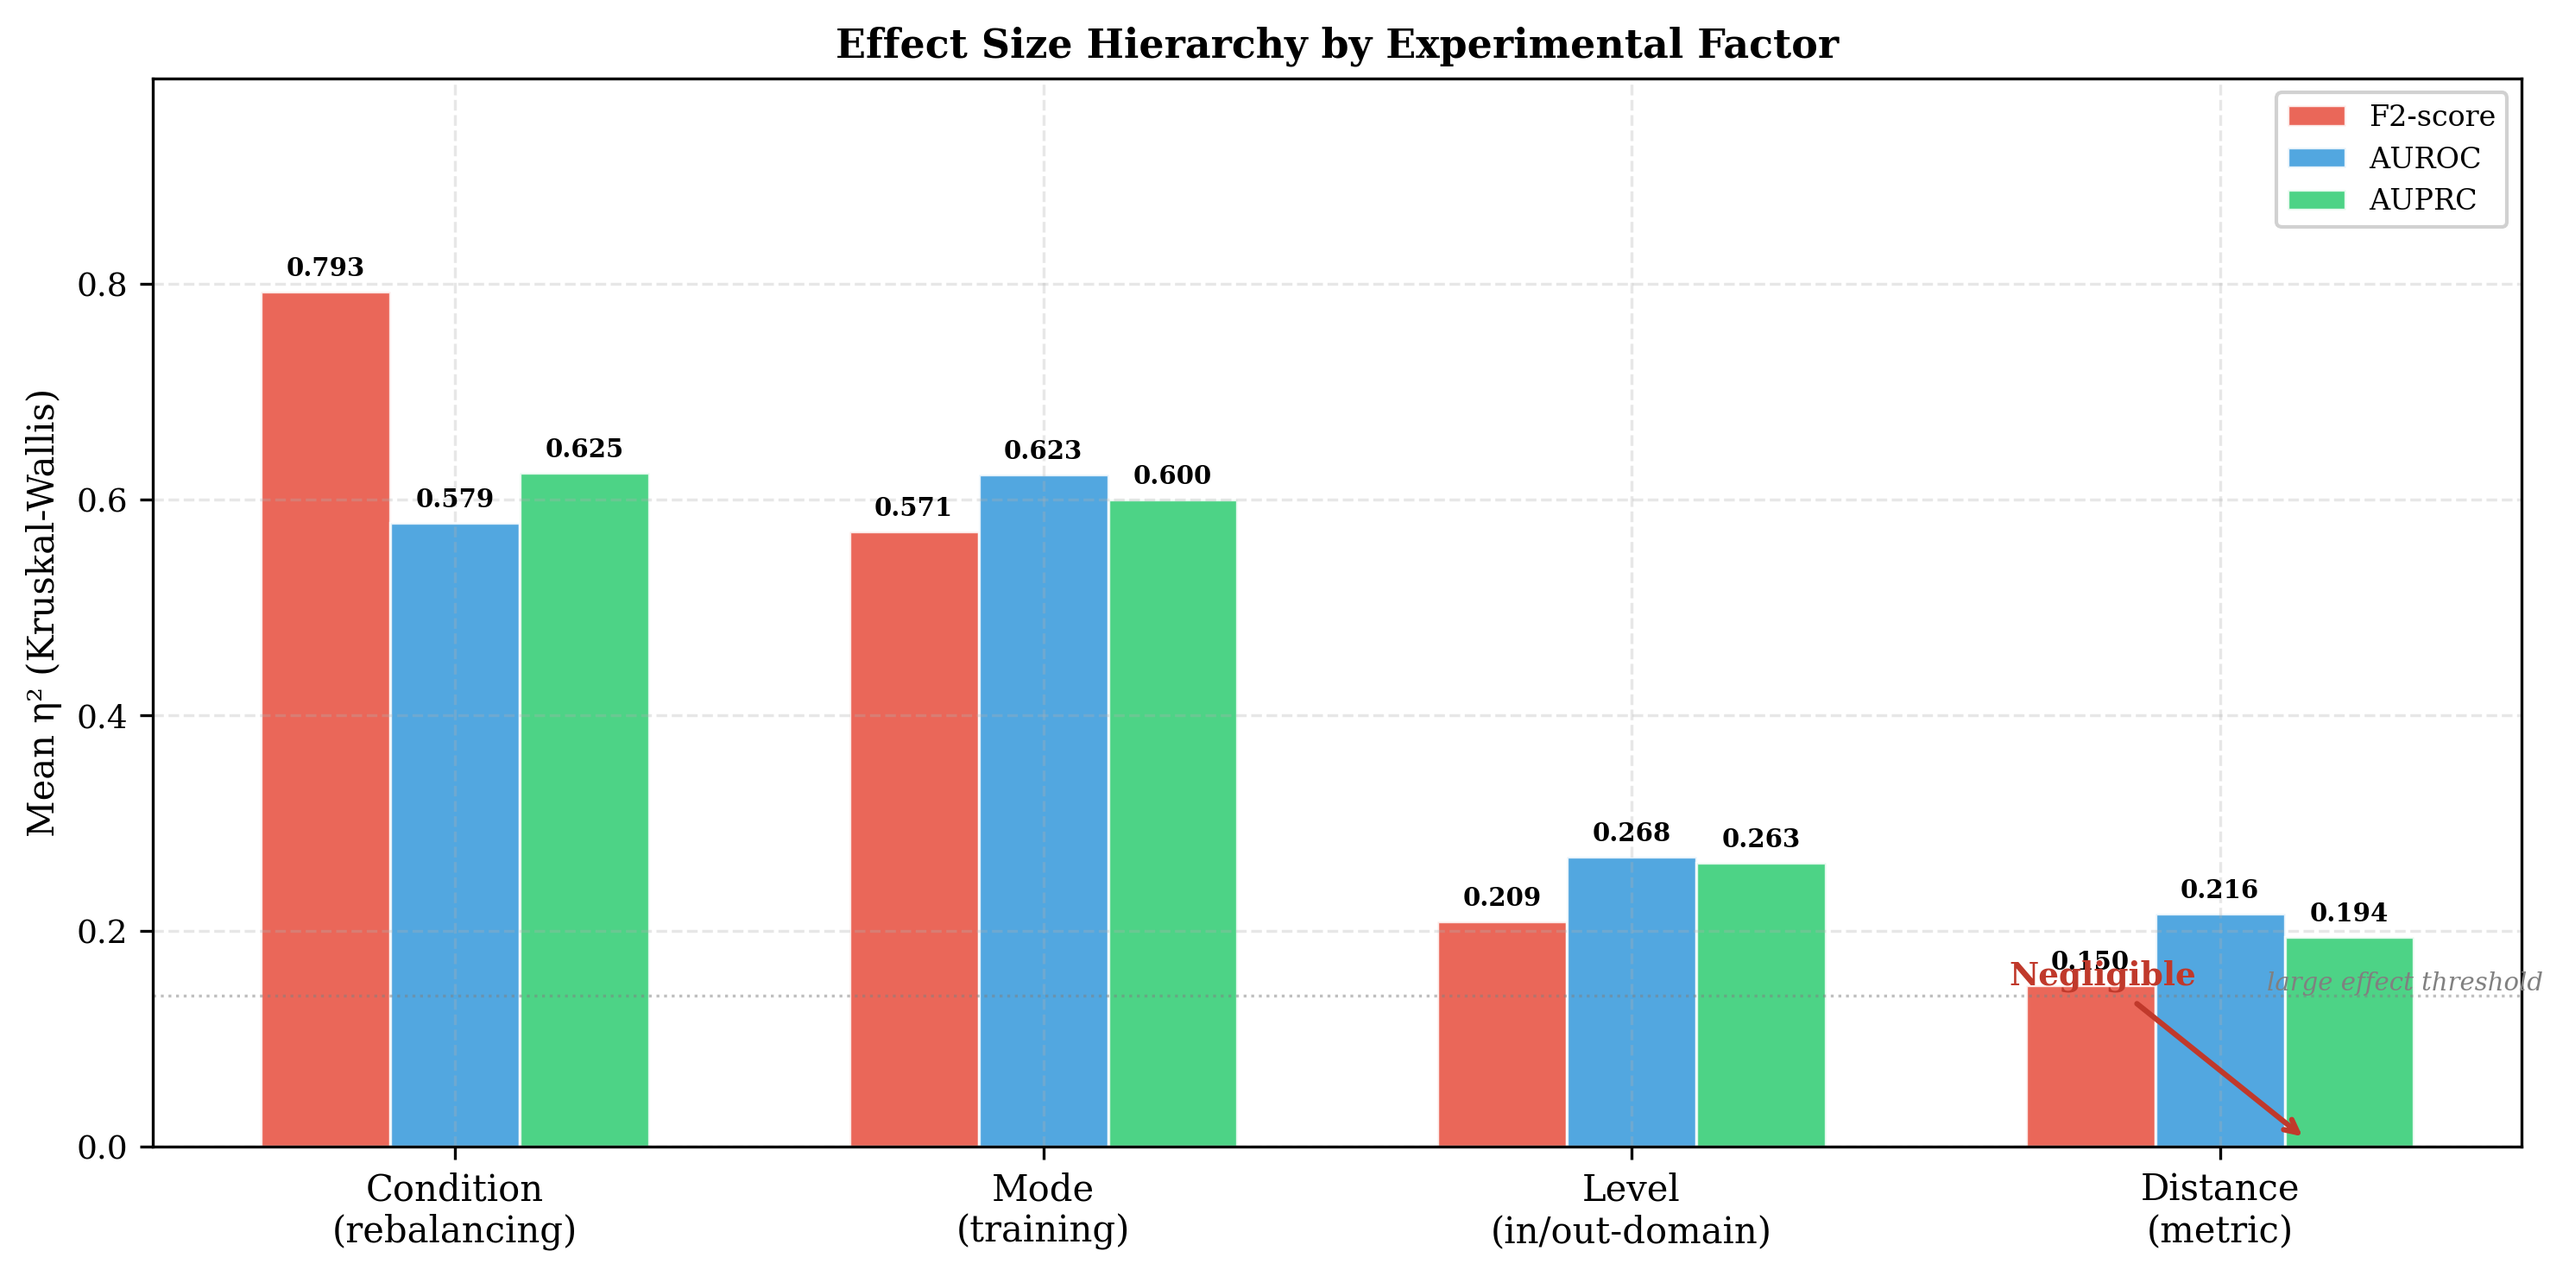
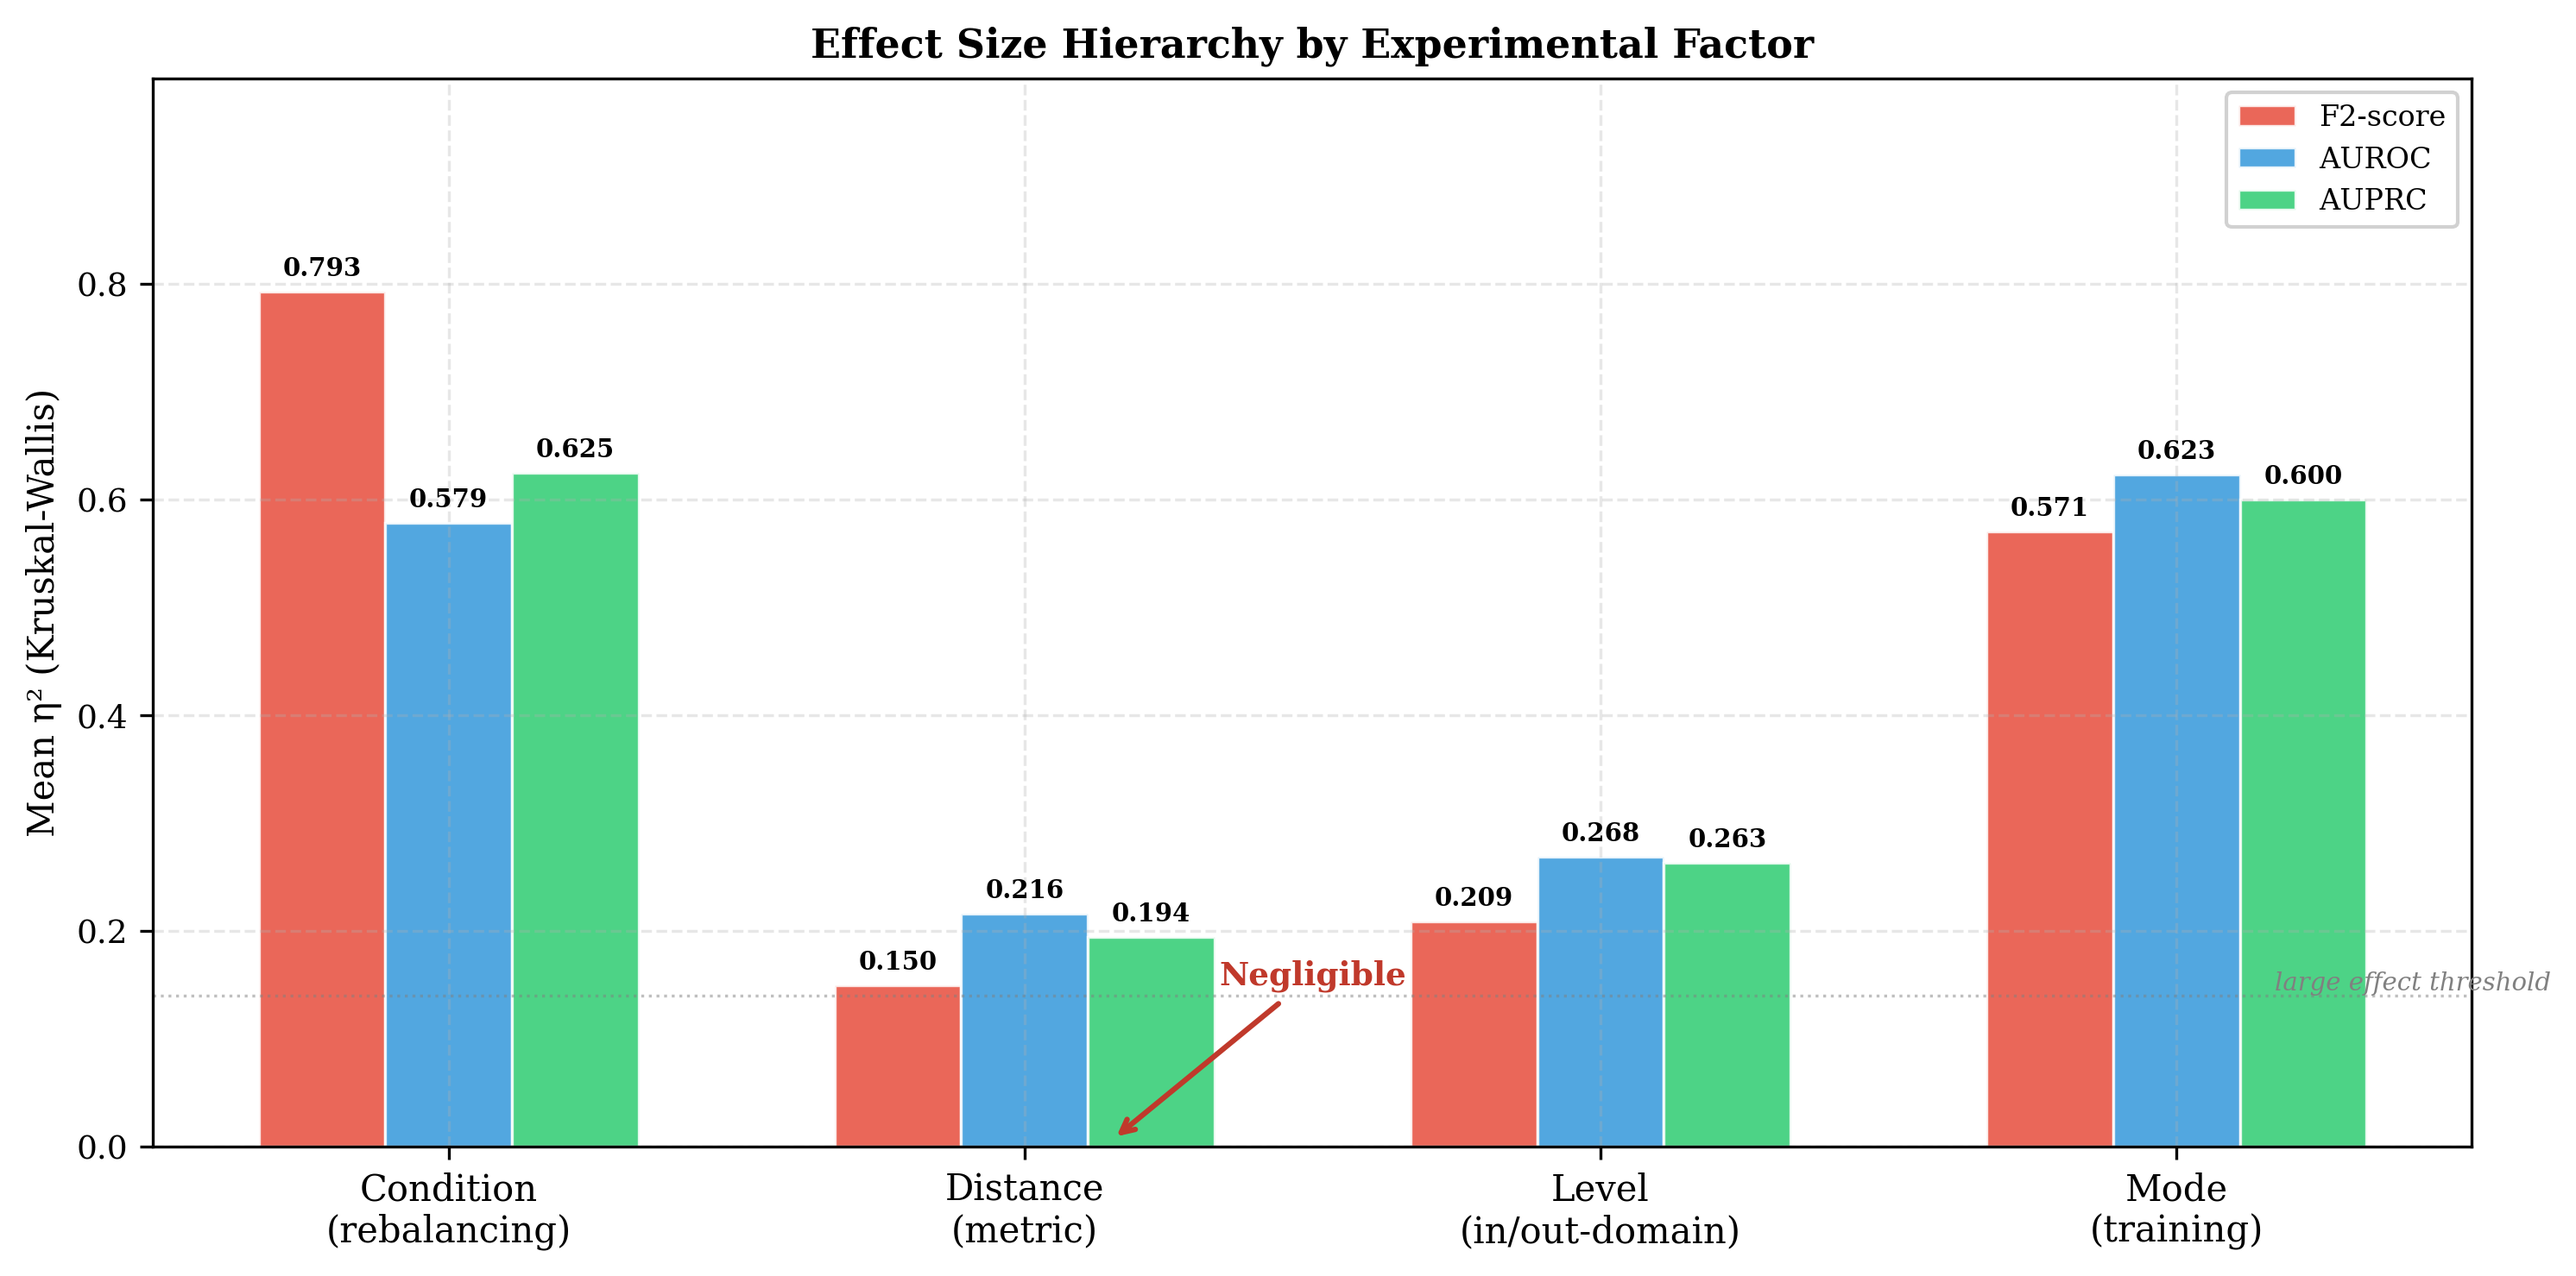
Fig 2: reorder factors to match paper (Condition→Distance→Level→Mode); add AUPRC to §4.1

diff --git a/scripts/python/analysis/domain/plot_journal_figures_v2.py b/scripts/python/analysis/domain/plot_journal_figures_v2.py
@@ -186,19 +186,21 @@ def plot_effect_hierarchy(df: pd.DataFrame):
                         etas_cond.append(eta_squared_from_H(H, n, len(groups)))
         results.append(("Condition\n(rebalancing)", mlabel, np.mean(etas_cond)))
 
-        # -- Mode effect: KW across 3 modes per cell, mean η²
-        etas_mode = []
+        # -- Distance effect: KW across 3 distances per cell, mean η²
+        etas_dist = []
         for cond in CONDITIONS_7:
-            for level in LEVELS:
-                sub = df[(df["condition"] == cond) & (df["level"] == level)]
-                groups = [sub[sub["mode"] == m][metric].dropna().values
-                          for m in MODES]
-                groups = [g for g in groups if len(g) > 0]
-                if len(groups) >= 2:
-                    H, p = stats.kruskal(*groups)
-                    n = sum(len(g) for g in groups)
-                    etas_mode.append(eta_squared_from_H(H, n, len(groups)))
-        results.append(("Mode\n(training)", mlabel, np.mean(etas_mode)))
+            for mode in MODES:
+                for level in LEVELS:
+                    sub = df[(df["condition"] == cond) & (df["mode"] == mode)
+                             & (df["level"] == level)]
+                    groups = [sub[sub["distance"] == d][metric].dropna().values
+                              for d in DISTANCES]
+                    groups = [g for g in groups if len(g) > 0]
+                    if len(groups) >= 2:
+                        H, p = stats.kruskal(*groups)
+                        n = sum(len(g) for g in groups)
+                        etas_dist.append(eta_squared_from_H(H, n, len(groups)))
+        results.append(("Distance\n(metric)", mlabel, np.mean(etas_dist)))
 
         # -- Level effect: KW across 2 levels per cell, mean η²
         etas_level = []
@@ -216,26 +218,24 @@ def plot_effect_hierarchy(df: pd.DataFrame):
                         etas_level.append(eta_squared_from_H(H, n, len(groups)))
         results.append(("Level\n(in/out-domain)", mlabel, np.mean(etas_level)))
 
-        # -- Distance effect: KW across 3 distances per cell, mean η²
-        etas_dist = []
+        # -- Mode effect: KW across 3 modes per cell, mean η²
+        etas_mode = []
         for cond in CONDITIONS_7:
-            for mode in MODES:
-                for level in LEVELS:
-                    sub = df[(df["condition"] == cond) & (df["mode"] == mode)
-                             & (df["level"] == level)]
-                    groups = [sub[sub["distance"] == d][metric].dropna().values
-                              for d in DISTANCES]
-                    groups = [g for g in groups if len(g) > 0]
-                    if len(groups) >= 2:
-                        H, p = stats.kruskal(*groups)
-                        n = sum(len(g) for g in groups)
-                        etas_dist.append(eta_squared_from_H(H, n, len(groups)))
-        results.append(("Distance\n(metric)", mlabel, np.mean(etas_dist)))
+            for level in LEVELS:
+                sub = df[(df["condition"] == cond) & (df["level"] == level)]
+                groups = [sub[sub["mode"] == m][metric].dropna().values
+                          for m in MODES]
+                groups = [g for g in groups if len(g) > 0]
+                if len(groups) >= 2:
+                    H, p = stats.kruskal(*groups)
+                    n = sum(len(g) for g in groups)
+                    etas_mode.append(eta_squared_from_H(H, n, len(groups)))
+        results.append(("Mode\n(training)", mlabel, np.mean(etas_mode)))
 
-    # Plot
+    # Plot – factor order matches paper: Condition, Distance, Level, Mode
     factors = [
-        "Condition\n(rebalancing)", "Mode\n(training)",
-        "Level\n(in/out-domain)", "Distance\n(metric)",
+        "Condition\n(rebalancing)", "Distance\n(metric)",
+        "Level\n(in/out-domain)", "Mode\n(training)",
     ]
     x = np.arange(len(factors))
     width = 0.22
@@ -259,7 +259,7 @@ def plot_effect_hierarchy(df: pd.DataFrame):
 
     # Reference lines
     ax.axhline(0.14, color="gray", linewidth=0.8, linestyle=":", alpha=0.5)
-    ax.text(3.55, 0.145, "large effect threshold", fontsize=7, color="gray",
+    ax.text(3.65, 0.145, "large effect threshold", fontsize=7, color="gray",
             ha="right", fontstyle="italic")
 
     ax.set_xticks(x)
@@ -269,10 +269,10 @@ def plot_effect_hierarchy(df: pd.DataFrame):
     ax.legend(loc="upper right", framealpha=0.9)
     ax.set_ylim(0, max(r[2] for r in results) * 1.25)
 
-    # Add annotation arrow pointing to Distance bar
+    # Add annotation arrow pointing to Distance + Level bars
     ax.annotate(
         "Negligible",
-        xy=(3.15, 0.005), xytext=(2.8, 0.15),
+        xy=(1.15, 0.005), xytext=(1.5, 0.15),
         fontsize=9, fontweight="bold", color="#c0392b",
         arrowprops=dict(arrowstyle="->", color="#c0392b", lw=1.5),
         ha="center",

diff --git a/docs/experiments/results/exp2-analysis/journal_paper_draft.md b/docs/experiments/results/exp2-analysis/journal_paper_draft.md
@@ -178,12 +178,12 @@ Based on the literature and factorial design, we formulate 6 primary hypotheses 
 
 ### 4.1 Overview
 
-A total of 1,512 observations across 7 conditions, 3 training modes, 3 distance metrics, 2 domain levels, and 12 random seeds were analyzed. The permutation test confirms a significant global condition effect for F2-score ($T_{\text{obs}} = 13.41$, $p < 0.001$) and AUROC ($T_{\text{obs}} = 10.35$, $p < 0.001$).
+A total of 1,512 observations across 7 conditions, 3 training modes, 3 distance metrics, 2 domain levels, and 12 random seeds were analyzed. The permutation test confirms a significant global condition effect for F2-score ($T_{\text{obs}} = 13.41$, $p < 0.001$), AUROC ($T_{\text{obs}} = 10.35$, $p < 0.001$), and AUPRC ($p < 0.001$).
 
-Fig. 2 summarizes the relative importance of each experimental factor. The four-factor effect size hierarchy (F2-score, AUROC, AUPRC) immediately reveals that **Mode** ($\eta^2 > 0.6$) and **Condition** ($\eta^2 = 0.1$–$0.8$) account for nearly all systematic variance, while **Level** (in/out-domain) and **Distance** contribute negligibly. This visual establishes the central narrative of the paper: rebalancing and training regime matter; domain grouping strategy does not.
+Fig. 2 summarizes the relative importance of each experimental factor. The four-factor effect size hierarchy (F2-score, AUROC, AUPRC) immediately reveals that **Condition** ($\eta^2 = 0.1$–$0.8$) and **Mode** ($\eta^2 > 0.6$) account for nearly all systematic variance, while **Distance** and **Level** (in/out-domain) contribute negligibly. This visual establishes the central narrative of the paper: rebalancing and training regime matter; domain grouping strategy does not.
 
 ![Effect Size Hierarchy](../../../../results/analysis/exp2_domain_shift/figures/png/split2/journal_v2/fig2_effect_hierarchy.png)
-*Fig. 2. Effect size hierarchy ($\eta^2$) for the four experimental factors (Condition, Mode, Level, Distance) across F2-score, AUROC, and AUPRC. Mode dominates, followed by Condition; Level and Distance are negligible.*
+*Fig. 2. Effect size hierarchy ($\eta^2$) for the four experimental factors (Condition, Distance, Level, Mode) across F2-score, AUROC, and AUPRC. Condition and Mode dominate; Distance and Level are negligible.*
 
 ### 4.2 Class Imbalance Handling (RQ1: H1, H2)
 
